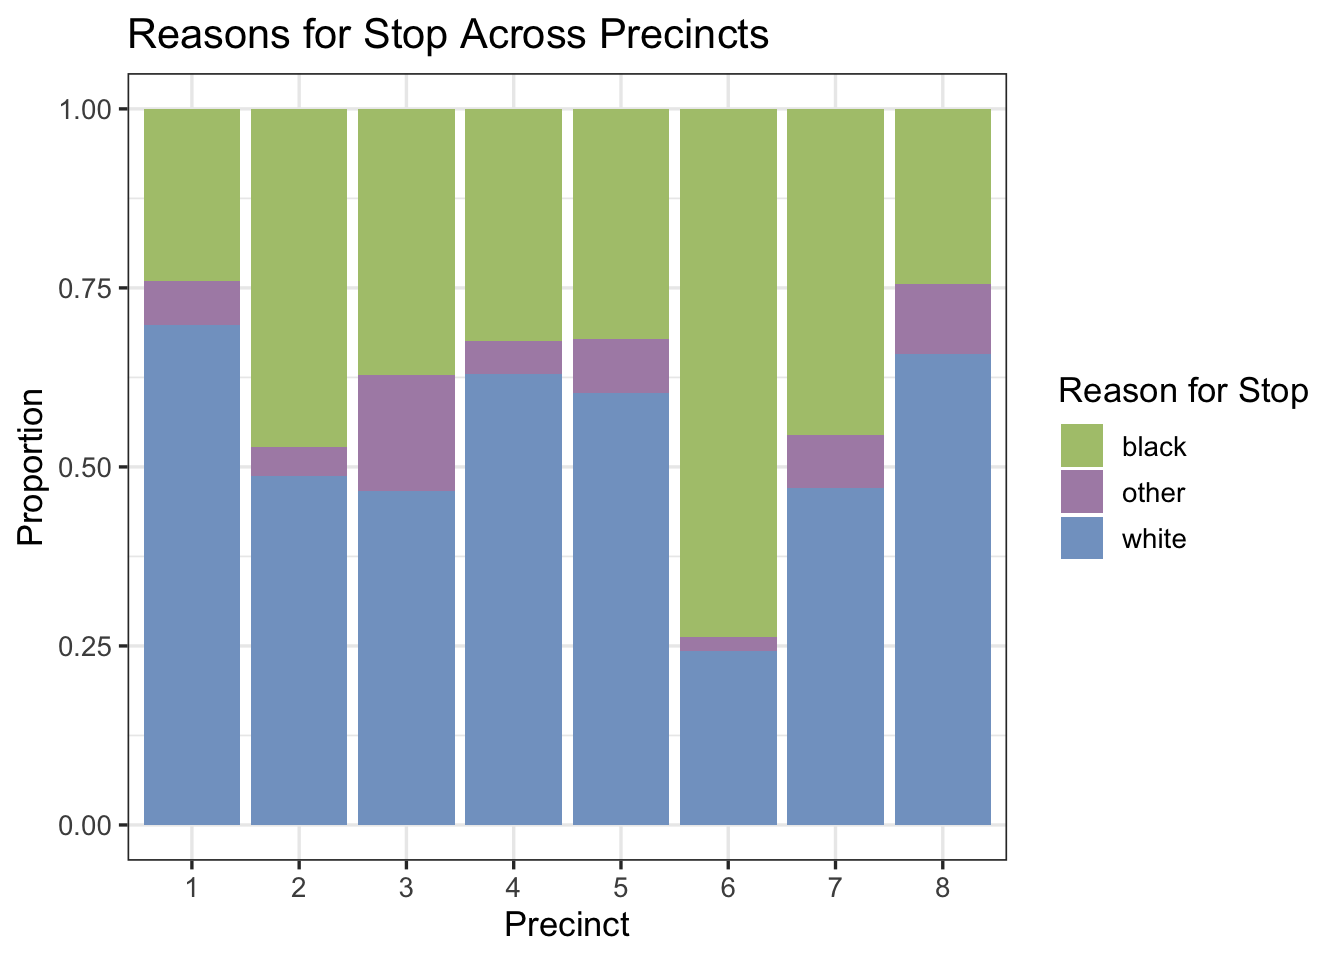
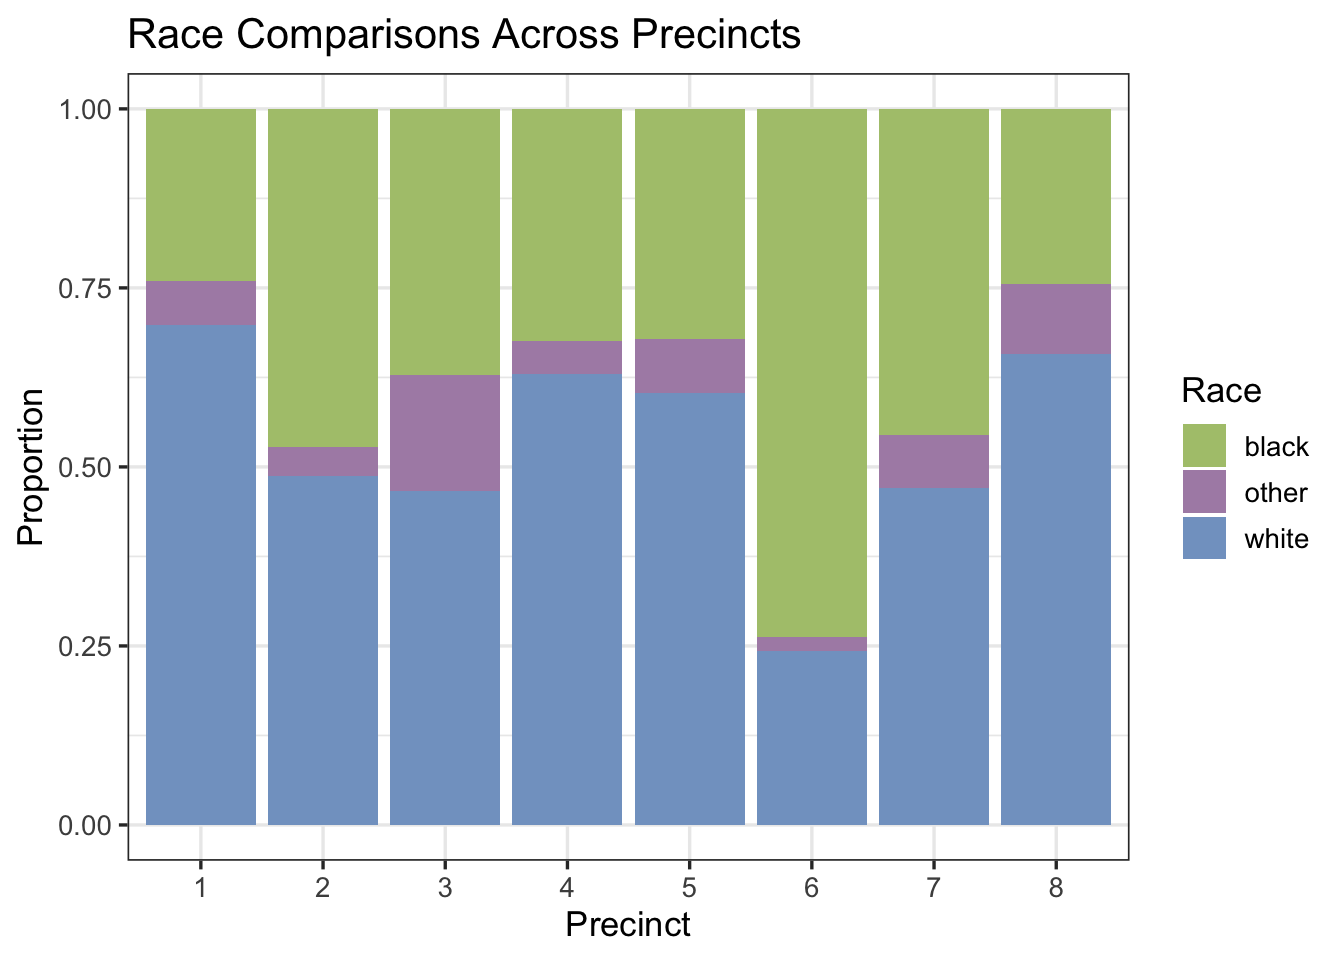
all results commentary, edit data chapter

diff --git a/docs/results.html b/docs/results.html
@@ -217,9 +217,9 @@ pre > code.sourceCode > span > a:first-child::before { text-decoration: underlin
 <span id="cb1-11"><a href="#cb1-11" aria-hidden="true" tabindex="-1"></a>  <span class="fu">select</span>(<span class="sc">-</span><span class="fu">c</span>(search_basis, contraband_weapons, contraband_found, notes))</span></code><button title="Copy to Clipboard" class="code-copy-button"><i class="bi"></i></button></pre></div>
 </details>
 </div>
+<p>In this section, our analysis is restricted to Nashville traffic stop data in 2014.</p>
 <section id="temporal-aspects" class="level2" data-number="3.1">
 <h2 data-number="3.1" class="anchored" data-anchor-id="temporal-aspects"><span class="header-section-number">3.1</span> Temporal Aspects</h2>
-<p>The first step of our exploratory data analysis involves seeing how the number of traffic stops evolved throughout 2014. Since traffic, and therefore driving habits, varies heavily by seasonal factors as well as daily habits, we plot a line graph segmented by day of the week. We see that there are clearly fewer traffic stops occurring on the weekend, which is likely due to the lack of rush hour traffic and its associated stress. There are three outliers to this trend, indicated by the very few traffic stops occuring on Thanksgiving, Christmas Eve, and Christmas Day.</p>
 <div class="cell">
 <details>
 <summary>Code</summary>
@@ -238,7 +238,7 @@ pre > code.sourceCode > span > a:first-child::before { text-decoration: underlin
 <p><img src="results_files/figure-html/unnamed-chunk-2-1.png" class="img-fluid" width="672"></p>
 </div>
 </div>
-<p>For completeness we also included the breakdown by hour of day, which verifies our intuition that there are fewer stops during the early morning hours and a spike in during rush hours from 9-10AM and 4-5PM.</p>
+<p>The first step of our exploratory data analysis involves seeing how the number of traffic stops evolved throughout 2014. Since traffic, and therefore driving habits, varies heavily by seasonal factors as well as daily habits, we plot a line graph segmented by day of the week. We see that there are clearly fewer traffic stops occurring on the weekend, which makes sense since there are fewer cars on the road then. There is also no rush hour traffic and its associated stress. There are three outliers to this trend, indicated by the very few traffic stops occuring on Thanksgiving, Christmas Eve, and Christmas Day.</p>
 <div class="cell">
 <details>
 <summary>Code</summary>
@@ -259,9 +259,11 @@ pre > code.sourceCode > span > a:first-child::before { text-decoration: underlin
 <p><img src="results_files/figure-html/unnamed-chunk-3-1.png" class="img-fluid" width="672"></p>
 </div>
 </div>
+<p>We also include the breakdown by hour of day, which verifies our intuition that there are fewer stops during the early morning hours and a spike in stops during rush hours from 9-10AM and 4-5PM. Note that there is also a spike in stops during lunch hour on weekdays (12-1PM) and dinner hour on Fridays only (8-9PM).</p>
 </section>
 <section id="demographic-data" class="level2" data-number="3.2">
 <h2 data-number="3.2" class="anchored" data-anchor-id="demographic-data"><span class="header-section-number">3.2</span> Demographic Data</h2>
+<p>One of our main areas of interest is the demographic features of the people stopped.</p>
 <div class="cell">
 <details>
 <summary>Code</summary>
@@ -283,6 +285,7 @@ pre > code.sourceCode > span > a:first-child::before { text-decoration: underlin
 <p><img src="results_files/figure-html/unnamed-chunk-4-1.png" class="img-fluid" width="672"></p>
 </div>
 </div>
+<p>Now we shift the analysis from the number of stops to the type of violation and its outcome. A primary area of interest is how demographic data is linked to these variables. Above is a stacked bar chart comparing the type of violations between genders. The global percentage of female violations is 41.2%, indicated by the vertical black line. Based on this, we see that women are overrepresented in the child restraint category, which deals with proper safety seats/infant carriers for children. Men are overrepresented in seatbelt violations, parking violations, and investigative stops. The remaining categories are very close to the global average.</p>
 <div class="cell">
 <details>
 <summary>Code</summary>
@@ -332,6 +335,7 @@ pre > code.sourceCode > span > a:first-child::before { text-decoration: underlin
 <p><img src="results_files/figure-html/unnamed-chunk-5-1.png" class="img-fluid" width="672"></p>
 </div>
 </div>
+<p>The boxplots above show how age varies between different outcomes, including warnings, arrests, and searches. We see that overall the distrution of people is younger if there was an arrest made or the driver or car was searched. However, if only a warning was issued, the person is likely to be older. This implies that younger people receive harsher treatment at traffic stops, while people who receive a warning are older.</p>
 <div class="cell">
 <details>
 <summary>Code</summary>
@@ -365,6 +369,8 @@ pre > code.sourceCode > span > a:first-child::before { text-decoration: underlin
 <p><img src="results_files/figure-html/unnamed-chunk-6-1.png" class="img-fluid" width="672"></p>
 </div>
 </div>
+<p>We wish to see a breakdown of all of the outcomes by race and gender, which is shown in the parallel coordinates plot above. (Note that the colors are paired by race.) From the graph, it is evident that men of color are the most likely to be frisked or searched. Hispanic and Black men are the top group in 5 out of the 7 outcomes, while Asian/Pacific Islander women are at the bottom for these outomes. Men are almost always ranked above their female conterparts, except when a citation or warning is issued. Additionally, we see a trade-off between citations and warnings, where low citation rates correspond to high warning rates and vice versa. Intuitively this makes sense, since warnings are a laxer outcome compared to a formal citation.</p>
+<p>Note that we kept all of the original race categories from the data for this plot. Since there are very few observations in the Hispanic, AAPI, other, and unknown groups, moving forward we will group the races according to White/Black/Other.</p>
 <div class="cell">
 <details>
 <summary>Code</summary>
@@ -409,9 +415,11 @@ pre > code.sourceCode > span > a:first-child::before { text-decoration: underlin
 <p><img src="results_files/figure-html/unnamed-chunk-7-2.png" class="img-fluid" width="672"></p>
 </div>
 </div>
+<p>After we have considered race, age, and gender separately, a mosaic plot can help us visualize all of these variables simultaneously. Here the response variable is if the driver was searched or not. Between the two plots, it is clear that women are searched less frequently than men across all age and race categories. In general, older people are searched with a smaller proportion, and Black individuals are searched with the greatest proportion in every subcategory.</p>
 </section>
 <section id="geographic-elements" class="level2" data-number="3.3">
 <h2 data-number="3.3" class="anchored" data-anchor-id="geographic-elements"><span class="header-section-number">3.3</span> Geographic Elements</h2>
+<p>Nashville is broken up into eight precincts. We will analyze the variation between precincts in this section.</p>
 <div class="cell">
 <details>
 <summary>Code</summary>
@@ -433,6 +441,7 @@ pre > code.sourceCode > span > a:first-child::before { text-decoration: underlin
 <p><img src="results_files/figure-html/unnamed-chunk-8-1.png" class="img-fluid" width="672"></p>
 </div>
 </div>
+<p>In the stacked bar chart above, we see different distributions of violations across precincts. Notably, precinct 6 has the greatest proportion of moving traffic violations, and precinct 3 has the smallest proportion of vehicle equipment violations. Precinct 7 has the biggest proportion of seatbelt violations. These differences may be due to the factors such as the layout of the city, the amount of traffic, and how urban the precincts are.</p>
 <div class="cell">
 <details>
 <summary>Code</summary>
@@ -447,12 +456,13 @@ pre > code.sourceCode > span > a:first-child::before { text-decoration: underlin
 <span id="cb10-9"><a href="#cb10-9" aria-hidden="true" tabindex="-1"></a>  <span class="fu">theme_bw</span>(<span class="dv">13</span>) <span class="sc">+</span></span>
 <span id="cb10-10"><a href="#cb10-10" aria-hidden="true" tabindex="-1"></a>  <span class="fu">scale_x_discrete</span>(<span class="at">limits=</span><span class="dv">0</span><span class="sc">:</span><span class="dv">23</span>) <span class="sc">+</span> </span>
 <span id="cb10-11"><a href="#cb10-11" aria-hidden="true" tabindex="-1"></a>  <span class="fu">labs</span>(<span class="at">x =</span> <span class="st">"Hour"</span>, <span class="at">y =</span> <span class="st">"Stop Count"</span>) <span class="sc">+</span></span>
-<span id="cb10-12"><a href="#cb10-12" aria-hidden="true" tabindex="-1"></a>  <span class="fu">ggtitle</span>(<span class="st">"Stop Count by Hour of the Day"</span>) </span></code><button title="Copy to Clipboard" class="code-copy-button"><i class="bi"></i></button></pre></div>
+<span id="cb10-12"><a href="#cb10-12" aria-hidden="true" tabindex="-1"></a>  <span class="fu">ggtitle</span>(<span class="st">"Stop Count by Hour of the Day by Precinct"</span>) </span></code><button title="Copy to Clipboard" class="code-copy-button"><i class="bi"></i></button></pre></div>
 </details>
 <div class="cell-output-display">
 <p><img src="results_files/figure-html/unnamed-chunk-9-1.png" class="img-fluid" width="672"></p>
 </div>
 </div>
+<p>The differences in precinct are evident by looking at the number of stops by hour segmented by precinct. Clearly, precinct 5 has the most stops during daytime hours (7AM-4PM) but fewer stops for the rest of the day. Conversely, precinct 8 has a medium number of stops during the daytime but the most stops during odd hours such as around midnight. These trends likely reflect both the patrolling patterns of police and the traffic waves in certain areas of the city.</p>
 <div class="cell">
 <details>
 <summary>Code</summary>
@@ -466,15 +476,16 @@ pre > code.sourceCode > span > a:first-child::before { text-decoration: underlin
 <span id="cb11-8"><a href="#cb11-8" aria-hidden="true" tabindex="-1"></a>  <span class="fu">ggplot</span>(<span class="fu">aes</span>(<span class="at">x =</span> precinct, <span class="at">fill =</span> subject_race)) <span class="sc">+</span> </span>
 <span id="cb11-9"><a href="#cb11-9" aria-hidden="true" tabindex="-1"></a>  <span class="fu">geom_bar</span>(<span class="at">position=</span><span class="st">'fill'</span>) <span class="sc">+</span> </span>
 <span id="cb11-10"><a href="#cb11-10" aria-hidden="true" tabindex="-1"></a>  <span class="fu">labs</span>(<span class="at">x =</span> <span class="st">"Precinct"</span>, <span class="at">y =</span> <span class="st">"Proportion"</span>) <span class="sc">+</span> </span>
-<span id="cb11-11"><a href="#cb11-11" aria-hidden="true" tabindex="-1"></a>  <span class="fu">ggtitle</span>(<span class="st">"Reasons for Stop Across Precincts"</span>) <span class="sc">+</span> </span>
+<span id="cb11-11"><a href="#cb11-11" aria-hidden="true" tabindex="-1"></a>  <span class="fu">ggtitle</span>(<span class="st">"Race Comparisons Across Precincts"</span>) <span class="sc">+</span> </span>
 <span id="cb11-12"><a href="#cb11-12" aria-hidden="true" tabindex="-1"></a>  <span class="fu">scale_fill_manual</span>(<span class="at">values =</span> <span class="fu">c</span>(<span class="st">"#aec57b"</span>, <span class="st">"#ad8db3"</span>, <span class="st">"#82A2CA"</span>),</span>
-<span id="cb11-13"><a href="#cb11-13" aria-hidden="true" tabindex="-1"></a>                    <span class="at">name =</span> <span class="st">"Reason for Stop"</span>) <span class="sc">+</span> </span>
+<span id="cb11-13"><a href="#cb11-13" aria-hidden="true" tabindex="-1"></a>                    <span class="at">name =</span> <span class="st">"Race"</span>) <span class="sc">+</span> </span>
 <span id="cb11-14"><a href="#cb11-14" aria-hidden="true" tabindex="-1"></a>  <span class="fu">theme_bw</span>(<span class="dv">13</span>)</span></code><button title="Copy to Clipboard" class="code-copy-button"><i class="bi"></i></button></pre></div>
 </details>
 <div class="cell-output-display">
 <p><img src="results_files/figure-html/unnamed-chunk-10-1.png" class="img-fluid" width="672"></p>
 </div>
 </div>
+<p>From the stacked barplot above, we see that the distribution of races also varies by precinct. Precinct 6 has the highest proportion of Black individuals stopped, while precinct 1 has the greatest proportion of White drivers stopped. Visualizing these differences can show the bigger picture of the populations of neighborhoods in Nashville.</p>
 <div class="cell">
 <details>
 <summary>Code</summary>
@@ -494,13 +505,14 @@ pre > code.sourceCode > span > a:first-child::before { text-decoration: underlin
 <span id="cb12-14"><a href="#cb12-14" aria-hidden="true" tabindex="-1"></a>            <span class="at">search_vehicle =</span> <span class="fu">mean</span>(search_vehicle)) <span class="sc">|&gt;</span> </span>
 <span id="cb12-15"><a href="#cb12-15" aria-hidden="true" tabindex="-1"></a>  <span class="fu">ggparcoord</span>(<span class="at">columns =</span> <span class="dv">2</span><span class="sc">:</span><span class="dv">8</span>, <span class="at">groupColumn =</span> <span class="st">"precinct"</span>) <span class="sc">+</span></span>
 <span id="cb12-16"><a href="#cb12-16" aria-hidden="true" tabindex="-1"></a>  <span class="fu">theme_bw</span>(<span class="dv">13</span>) <span class="sc">+</span> </span>
-<span id="cb12-17"><a href="#cb12-17" aria-hidden="true" tabindex="-1"></a>  <span class="fu">ggtitle</span>(<span class="st">"Stop Outcomes by Race and Gender"</span>) <span class="sc">+</span></span>
+<span id="cb12-17"><a href="#cb12-17" aria-hidden="true" tabindex="-1"></a>  <span class="fu">ggtitle</span>(<span class="st">"Stop Outcomes by Precinct"</span>) <span class="sc">+</span></span>
 <span id="cb12-18"><a href="#cb12-18" aria-hidden="true" tabindex="-1"></a>  <span class="fu">theme</span>(<span class="at">axis.text.x =</span> <span class="fu">element_text</span>(<span class="at">angle =</span> <span class="dv">25</span>, <span class="at">vjust =</span> <span class="dv">1</span>, <span class="at">hjust=</span><span class="dv">1</span>))</span></code><button title="Copy to Clipboard" class="code-copy-button"><i class="bi"></i></button></pre></div>
 </details>
 <div class="cell-output-display">
 <p><img src="results_files/figure-html/unnamed-chunk-11-1.png" class="img-fluid" width="672"></p>
 </div>
 </div>
+<p>Finally, we compare the breakdown of outcomes by precinct. We see that precinct 7 is where individuals are the most likely to be searched. Precinct 4 has the lowest rates of searches and warnings but the highest likelihood of a citation issued. This plot also verifies the tradeoff between citations and warnings that was shown in the parallel coordinates plot by race. Precincts with a high rate of citations also have a low rate of warnings, and the converse holds. To see this, note the trends exhibited by precincts 2 and 4.</p>
 
 
 </section>

diff --git a/docs/d3graph.html b/docs/d3graph.html
@@ -137,7 +137,15 @@ ul.task-list li input[type="checkbox"] {
 <div id="quarto-sidebar-glass" data-bs-toggle="collapse" data-bs-target="#quarto-sidebar,#quarto-sidebar-glass"></div>
 <!-- margin-sidebar -->
     <div id="quarto-margin-sidebar" class="sidebar margin-sidebar">
-        
+        <nav id="TOC" role="doc-toc" class="toc-active">
+    <h2 id="toc-title">Table of contents</h2>
+   
+  <ul>
+  <li><a href="#context" id="toc-context" class="nav-link active" data-scroll-target="#context"><span class="header-section-number">4.1</span> Context</a></li>
+  <li><a href="#interactive-barplot" id="toc-interactive-barplot" class="nav-link" data-scroll-target="#interactive-barplot"><span class="header-section-number">4.2</span> Interactive barplot</a></li>
+  <li><a href="#interpretation" id="toc-interpretation" class="nav-link" data-scroll-target="#interpretation"><span class="header-section-number">4.3</span> Interpretation</a></li>
+  </ul>
+<div class="toc-actions"><div><i class="bi bi-github"></i></div><div class="action-links"><p><a href="https://github.com/YeriAddict/NashvillePolicing.git/edit/main/d3graph.qmd" class="toc-action">Edit this page</a></p><p><a href="https://github.com/YeriAddict/NashvillePolicing.git/issues/new" class="toc-action">Report an issue</a></p></div></div></nav>
     </div>
 <!-- main -->
 <main class="content" id="quarto-document-content">
@@ -159,18 +167,31 @@ ul.task-list li input[type="checkbox"] {
 
 </header>
 
-<style>
-  * {
-    font-family: sans-serif;
-  }
-</style>
-<div id="plot">
+<section id="context" class="level2" data-number="4.1">
+<h2 data-number="4.1" class="anchored" data-anchor-id="context"><span class="header-section-number">4.1</span> Context</h2>
+<p>Sometimes, cops decide to perform searches on drivers to ensure that the latter do not put public safety at risk in any way. Indeed, there might be a correlation between reckless driving and drug consumption, alcohol consumption and gun possession… We wanted to see in what type of situation a cop would think it is necessary to perform a search on a driver.</p>
+</section>
+<section id="interactive-barplot" class="level2" data-number="4.2">
+<h2 data-number="4.2" class="anchored" data-anchor-id="interactive-barplot"><span class="header-section-number">4.2</span> Interactive barplot</h2>
+<script src="https://d3js.org/d3.v4.js"></script>
+<h4 style="text-align: center; margin-left: 15%" class="anchored">
+Number of stops per violation type
+</h4>
+<div id="plot" style="width: 960px">
 
 </div>
-<script src="https://cdn.jsdelivr.net/npm/d3@7"></script>
+<p style="text-align: center; font-size: 14px; margin-left: 5%">
+Type of violation
+</p>
 <script src="scripts/myscript.js"></script>
+<p>We have plotted a bar chart that displays the count for each type of violation. It is possible to check the percentage of searched drivers by simply hovering the mouse over the different bars.</p>
+</section>
+<section id="interpretation" class="level2" data-number="4.3">
+<h2 data-number="4.3" class="anchored" data-anchor-id="interpretation"><span class="header-section-number">4.3</span> Interpretation</h2>
+<p>We notice that the type of violation that triggers the highest percentage of search is “investigative_stop” with 12.3%. This seems coherent with the nature of the type of stop. Furthermore, child_restraint and seatbelt_violation come next with respectively 4.7% and 4.3%. This might be surprising as these types of violation might not seem too severe.</p>
 
 
+</section>
 
 </main> <!-- /main -->
 <script id="quarto-html-after-body" type="application/javascript">
@@ -426,7 +447,7 @@ window.document.addEventListener("DOMContentLoaded", function (event) {
     </div>   
     <div class="nav-footer-center">
       &nbsp;
-    <div class="toc-actions"><div><i class="bi bi-github"></i></div><div class="action-links"><p><a href="https://github.com/YeriAddict/NashvillePolicing.git/edit/main/d3graph.qmd" class="toc-action">Edit this page</a></p><p><a href="https://github.com/YeriAddict/NashvillePolicing.git/issues/new" class="toc-action">Report an issue</a></p></div></div></div>
+    </div>
     <div class="nav-footer-right">This book was built with <a href="https://quarto.org/">Quarto</a>.</div>
   </div>
 </footer>

diff --git a/docs/data.html b/docs/data.html
@@ -558,6 +558,7 @@ pre > code.sourceCode > span > a:first-child::before { text-decoration: underlin
 </div>
 <p>To further analyze trends in missing values, we faceted the percent of missing values by year for a few of the variables with a most number of missing values after excluding the four variables discussed above. We see that in 2017-2019, there is no data for raw_written_warning_issued, and from 2010-2011 the column raw_misd_state_citation_issued is mostly empty. This may be due to changes in notation over time.</p>
 <p>With the fact that there are over three million rows in mind, we decide to subset our data to 2014 only for a more manageable size. Our subsetted data has 413,114 rows.</p>
+<p>As we move forward with our analysis, we want to keep as much data as possible. Furthermore, most of the columns have zero or only a handful missing values. For these reasons we did not remove incomplete rows with NA’s; instead we will drop missing observations if needed and only for the columns analyzed in the current plot.</p>
 
 
 </section>
